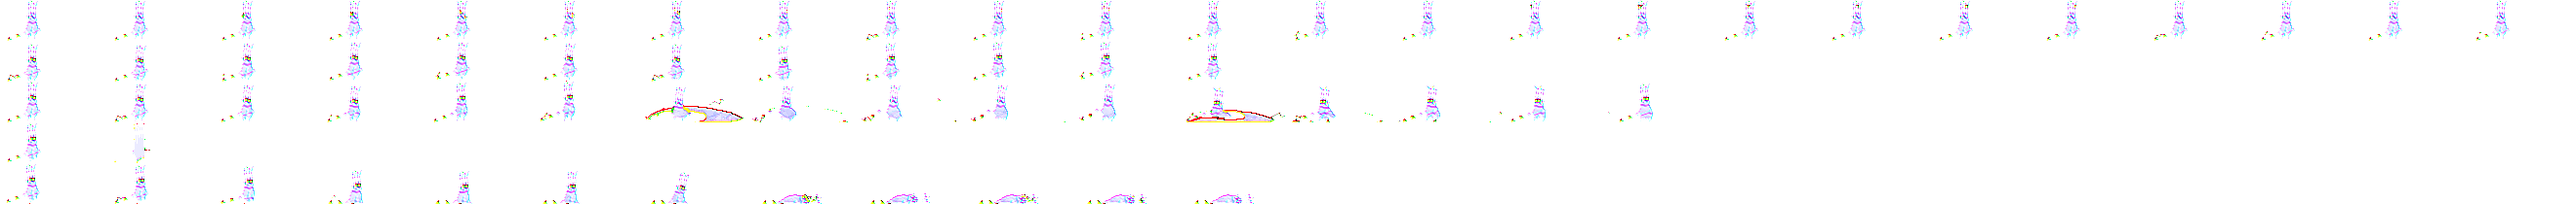
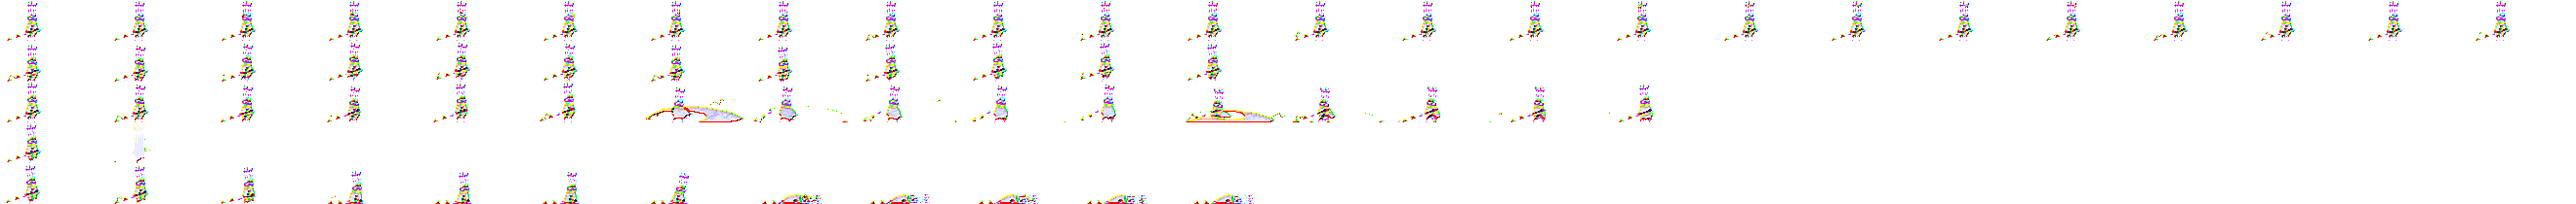
CagedShocker 노말맵 적용 완료. Sweeper 적용할 차례

diff --git a/jhResourceMaker.cpp b/jhResourceMaker.cpp
@@ -39,6 +39,7 @@ namespace jh
 
 
 	const std::wstring ResourceMaker::MONSTER_TEXTURE_CAGED_SHOKER_ATLAS_KEY = L"CagedTextureAtalsKey";
+	const std::wstring ResourceMaker::MONSTER_TEXTURE_CAGED_SHOKER_NORMAL_MAP_KEY = L"CagedNormalTextureKey";
 	const std::wstring ResourceMaker::MONSTER_TEXTURE_SWEEPER_ATLAS_KEY = L"SweeperTextureAtalsKey";
 	const std::wstring ResourceMaker::MONSTER_TEXTURE_WARDEN_ATLAS_KEY = L"WardenTextureAtalsKey";
 	const std::wstring ResourceMaker::OBELISK_TEXTURE_ATLAS_KEY = L"ObeliskTextureAtalsKey";
@@ -77,6 +78,7 @@ namespace jh
 	const std::wstring ResourceMaker::PLAYER_NORMAL_MAP_MATERIAL_KEY = L"PlayerNormalMapMaterialKey";
 
 	const std::wstring ResourceMaker::MONSTER_CAGED_SHOKER_MATERIAL_KEY = L"CagedShokerMaterialKey";
+	const std::wstring ResourceMaker::MONSTER_CAGED_SHOKER_NORMAL_MAP_MATERIAL_KEY = L"CagedNormalMaterialKey";
 	const std::wstring ResourceMaker::MONSTER_SWEEPER_MATERIAL_KEY = L"SweeperMaterialKey";
 	const std::wstring ResourceMaker::MONSTER_WARDEN_MATERIAL_KEY = L"WardenMaterialKey";
 	const std::wstring ResourceMaker::OBELISK_MATERIAL_KEY = L"ObeliskMaterialKey";
@@ -378,6 +380,10 @@ namespace jh
 		pCagedShokerAtlasTexture->Load(L"caged shocker 110x42.png");
 		ResourcesManager::Insert<Texture>(MONSTER_TEXTURE_CAGED_SHOKER_ATLAS_KEY, pCagedShokerAtlasTexture);
 
+		Texture* pCagedShokerNormalMapTexture = new Texture();
+		pCagedShokerNormalMapTexture->Load(L"caged shocker 110x42_NM.png");
+		ResourcesManager::Insert<Texture>(MONSTER_TEXTURE_CAGED_SHOKER_NORMAL_MAP_KEY, pCagedShokerNormalMapTexture);
+
 		Texture* pSweeperAtlasTexture = new Texture();
 		pSweeperAtlasTexture->Load(L"Sweeper.png");
 		ResourcesManager::Insert<Texture>(MONSTER_TEXTURE_SWEEPER_ATLAS_KEY, pSweeperAtlasTexture);
@@ -486,6 +492,9 @@ namespace jh
 
 		Material* pCagedMaterial = new Material(ResourcesManager::Find<Shader>(SPRITE_SHADER_KEY), ResourcesManager::Find<Texture>(MONSTER_TEXTURE_CAGED_SHOKER_ATLAS_KEY));
 		ResourcesManager::Insert<Material>(MONSTER_CAGED_SHOKER_MATERIAL_KEY, pCagedMaterial);
+
+		Material* pCagedNormalMapMaterial = new NormalMapMaterial(ResourcesManager::Find<Shader>(NORMAL_MAP_SPRITE_SHADER_KEY), ResourcesManager::Find<Texture>(MONSTER_TEXTURE_CAGED_SHOKER_ATLAS_KEY), ResourcesManager::Find<Texture>(MONSTER_TEXTURE_CAGED_SHOKER_NORMAL_MAP_KEY));
+		ResourcesManager::Insert<Material>(MONSTER_CAGED_SHOKER_NORMAL_MAP_MATERIAL_KEY, pCagedNormalMapMaterial);
 
 		Material* pSweeperMaterial = new Material(ResourcesManager::Find<Shader>(SPRITE_SHADER_KEY), ResourcesManager::Find<Texture>(MONSTER_TEXTURE_SWEEPER_ATLAS_KEY));
 		ResourcesManager::Insert<Material>(MONSTER_SWEEPER_MATERIAL_KEY, pSweeperMaterial);

diff --git a/jhResourceMaker.h b/jhResourceMaker.h
@@ -50,6 +50,7 @@ namespace jh
 		static const std::wstring PLAYER_TEXTURE_ATLAS_KEY;
 		static const std::wstring PLAYER_NORMAL_MAP_TEXTURE_ATLAS_KEY;
 		static const std::wstring MONSTER_TEXTURE_CAGED_SHOKER_ATLAS_KEY;
+		static const std::wstring MONSTER_TEXTURE_CAGED_SHOKER_NORMAL_MAP_KEY;
 		static const std::wstring MONSTER_TEXTURE_SWEEPER_ATLAS_KEY;
 		static const std::wstring MONSTER_TEXTURE_WARDEN_ATLAS_KEY;
 
@@ -77,6 +78,7 @@ namespace jh
 		static const std::wstring PLAYER_MATERIAL_KEY;
 		static const std::wstring PLAYER_NORMAL_MAP_MATERIAL_KEY;
 		static const std::wstring MONSTER_CAGED_SHOKER_MATERIAL_KEY;
+		static const std::wstring MONSTER_CAGED_SHOKER_NORMAL_MAP_MATERIAL_KEY;
 		static const std::wstring MONSTER_SWEEPER_MATERIAL_KEY;
 		static const std::wstring MONSTER_WARDEN_MATERIAL_KEY;
 		static const std::wstring BATTLE_BG_MATERIAL_KEY;
@@ -85,6 +87,7 @@ namespace jh
 		static const std::wstring HIT_EFFECT_MATERIAL_KEY;
 		static const std::wstring BRIK_MATERIAL_KEY;
 		static const std::wstring BRIK_NOT_NORMAL_MATERIAL_KEY;
+
 
 		static const std::wstring DEBUG_MATERIAL_KEY;
 		static const std::wstring UI_HP_BORDER_MATERIAL_KEY;

diff --git a/jhMonsterSpawner.cpp b/jhMonsterSpawner.cpp
@@ -11,7 +11,7 @@ using namespace jh::math;
 
 namespace jh
 {
-	const float MonsterSpawner::CAGED_SHOKER_RESPAWN_TIME = 21.0f;
+	const float MonsterSpawner::CAGED_SHOKER_RESPAWN_TIME = 5.0f;
 	const float MonsterSpawner::SWEEPER_RESPAWN_TIME = 11.0f;
 	const float MonsterSpawner::WARDEN_RESPAWN_TIME = 7.0f;
 
@@ -41,13 +41,13 @@ namespace jh
 		if (mCagedShokerRespawnTimer <= 0.0f)
 			{spawnMonster(eMonsterType::LV_1_CAGED_SHOKER);}
 
-		mSweeperRespawnTimer -= Time::DeltaTime();
-		if (mSweeperRespawnTimer <= 0.0f)
-			{spawnMonster(eMonsterType::LV_1_SWEEPER);}
+		//mSweeperRespawnTimer -= Time::DeltaTime();
+		//if (mSweeperRespawnTimer <= 0.0f)
+		//	{spawnMonster(eMonsterType::LV_1_SWEEPER);}
 
-		mWardenRespawnTimer -= Time::DeltaTime();
-		if (mWardenRespawnTimer <= 0.0f)
-			{spawnMonster(eMonsterType::LV_1_WARDEN);}
+		//mWardenRespawnTimer -= Time::DeltaTime();
+		//if (mWardenRespawnTimer <= 0.0f)
+		//	{spawnMonster(eMonsterType::LV_1_WARDEN);}
 	}
 
 	void MonsterSpawner::spawnMonster(const eMonsterType eMonType)

diff --git a/jhMonsterManager.cpp b/jhMonsterManager.cpp
@@ -114,8 +114,8 @@ namespace jh
 			ZeroMemory(&monInfo, sizeof(MonsterInfo));
 			createMonsterInfo(
 				monInfo, 
-				ResourcesManager::Find<Mesh>(ResourceMaker::RECT_MESH_KEY), 
-				ResourcesManager::Find<Material>(ResourceMaker::MONSTER_CAGED_SHOKER_MATERIAL_KEY), 
+				ResourcesManager::Find<Mesh>(ResourceMaker::RECT_NORMAL_MAP_MESH_KEY), 
+				ResourcesManager::Find<Material>(ResourceMaker::MONSTER_CAGED_SHOKER_NORMAL_MAP_MATERIAL_KEY), 
 				pCagedShokerAnimator,
 				pPlayerScript,
 				eMonsterType::LV_1_CAGED_SHOKER
